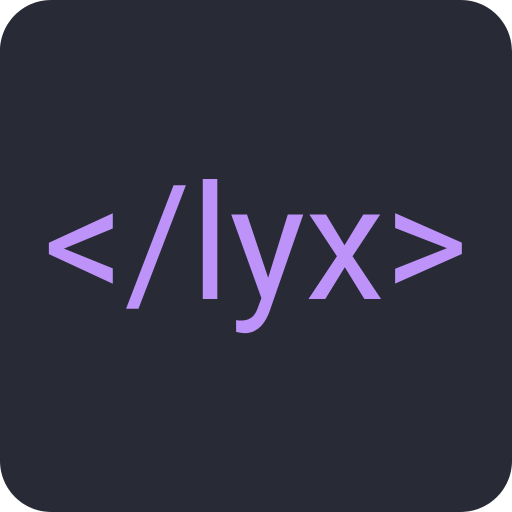
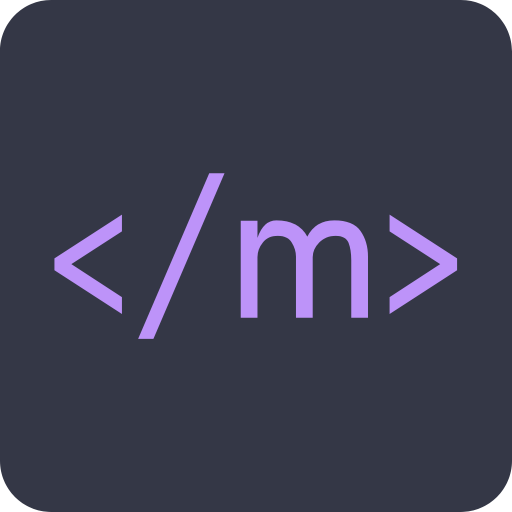
rebranding

Changed region(s): [[0.0938, 0.3125, 0.9062, 0.6875]]

diff --git a/projects.html b/projects.html
@@ -11,9 +11,9 @@
 <body>
     <nav>
     <div class="nav-left">
-        <label>&lt;/lyx&gt;</label>
+        <label>&lt;/maddie&gt;</label>
         <a href="index.html">Home</a>
-        <a href="https://blog.lyxminx.xyz">Blog</a>
+        <a href="https://blog.maddiemightcry.space">Blog</a>
         <a href="projects.html">Projects</a>
     </div>
     <div class="nav-right">

diff --git a/index.html b/index.html
@@ -13,7 +13,7 @@
   <div class="nav-left">
     <label>&lt;/maddie&gt;</label>
     <a href="index.html">Home</a>
-    <a href="https://blog.lyxminx.xyz">Blog</a>
+    <a href="https://blog.maddiemightcry.space">Blog</a>
     <a href="projects.html">Projects</a>
   </div>
   <div class="nav-right">
